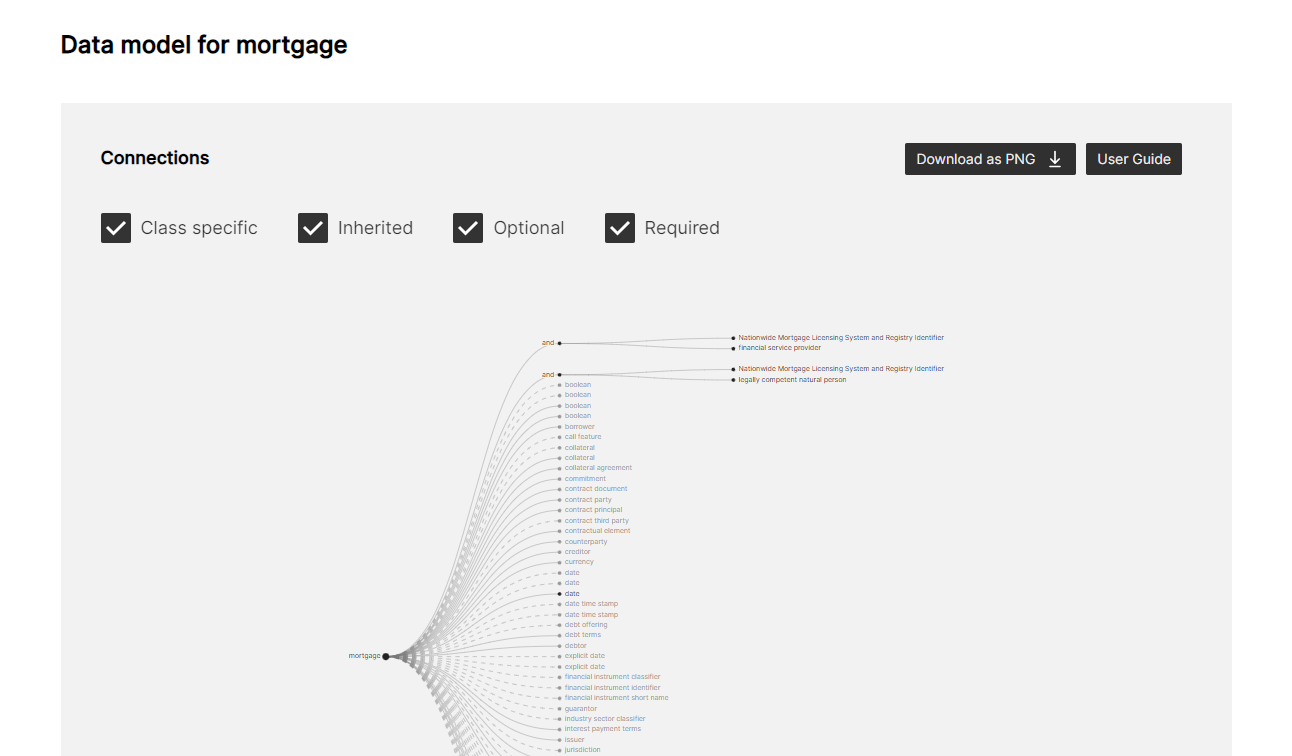
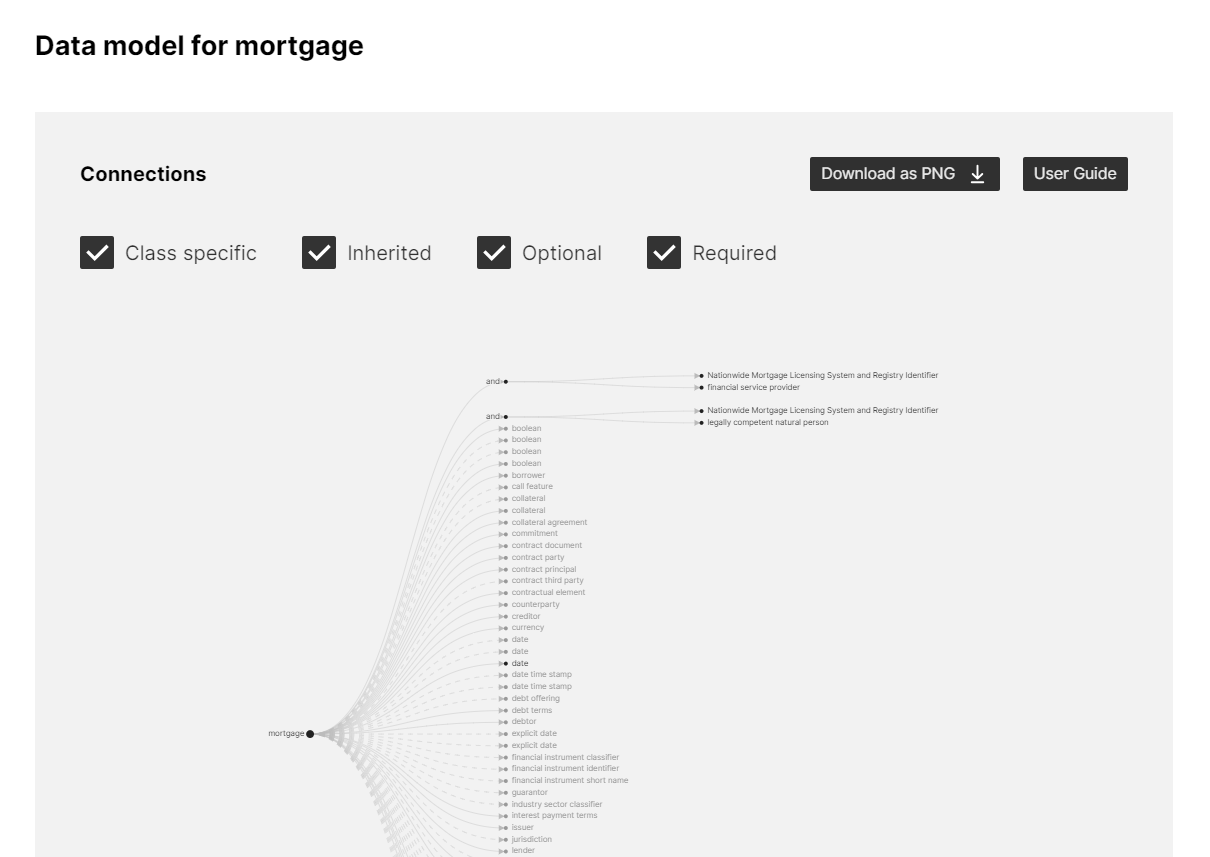
Update images and content

diff --git a/general/components/UI/bs-modal.vue b/general/components/UI/bs-modal.vue
@@ -63,16 +63,6 @@ export default {
       else {
         this.instance.hide();
       }
-
-      // Associate modal with it's modal-backdrop
-      const allBackdrops = document.querySelectorAll('.modal-backdrop');
-      allBackdrops.forEach(element => {
-        if (!element.id) {
-          element.id = `backdrop-${this.correctId}`;
-          if (this.secondLevel)
-            element.classList.add('second-level');
-        }
-      });
     },
     onHidden() {
       this.$emit('hidden');
@@ -136,6 +126,16 @@ export default {
       if (newValue) {
         await nextTick();
         this.instance.show();
+
+        // Associate modal with it's modal-backdrop
+        const allBackdrops = document.querySelectorAll('.modal-backdrop');
+        allBackdrops.forEach(element => {
+          if (!element.id) {
+            element.id = `backdrop-${this.correctId}`;
+            if (this.secondLevel)
+              element.classList.add('second-level');
+          }
+        });
       }
       else {
         this.instance.hide();

diff --git a/general/helpers/ontograph.js b/general/helpers/ontograph.js
@@ -541,13 +541,13 @@ export default class Ontograph {
       this.root.each((d) => {
         d._totalChildren?.sort((a, b) => d3.descending(a.height, b.height));
       });
-    } else if (type === 'type') {
+    } else if (type === 'optional') {
       this.root.each((d) => {
-        d._totalChildren?.sort((a, b) => d3.descending(a.data.type, b.data.type));
+        d._totalChildren?.sort((a, b) => d3.descending(a.data.dashes, b.data.dashes));
       });
     } else if (type === 'inherited') {
       this.root.each((d) => {
-        d._totalChildren?.sort((a, b) => d3.descending(a.data.dashes, b.data.dashes));
+        d._totalChildren?.sort((a, b) => d3.descending(a.data.type, b.data.type));
       });
     }
 

diff --git a/general/components/Ontology/GraphVisualization.vue b/general/components/Ontology/GraphVisualization.vue
@@ -293,8 +293,8 @@
                 </button>
                 <button
                   class="btn chip-button"
-                  @click="sort('type')"
-                  :class="{ selected: sortType === 'type' && layout !== 'force' }"
+                  @click="sort('optional')"
+                  :class="{ selected: sortType === 'optional' && layout !== 'force' }"
                   :disabled="layout == 'force'"
                 >
                   Optional
